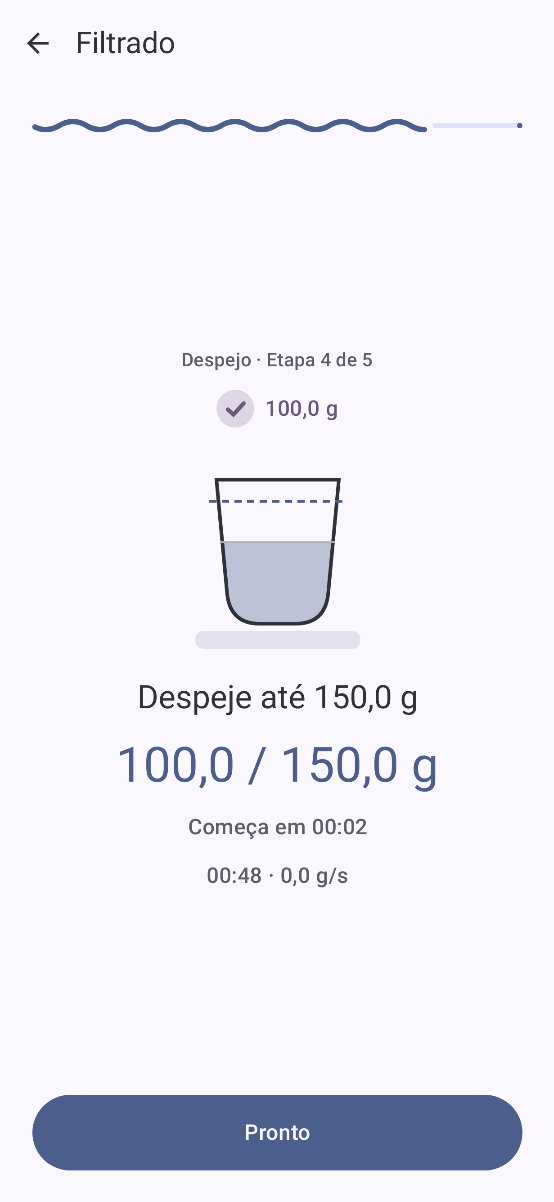
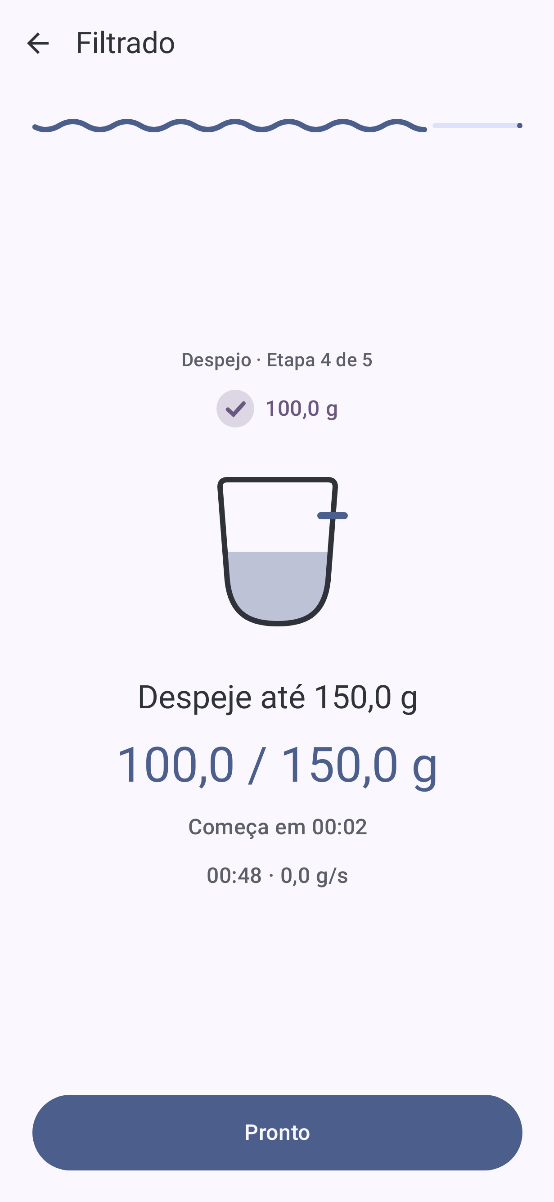
Guided pour: a cleaner cup
A softer rounded cup with a heavier outline, the target as a short solid
tick across its side below the rim, and no dashed line, previous-pour line
or scale bar.

Changed region(s): [[0.3375, 0.4002, 0.6444, 0.5541]]

diff --git a/app/src/main/java/io/github/mateuxlucax/caparao/ui/brew/GuidedStep.kt b/app/src/main/java/io/github/mateuxlucax/caparao/ui/brew/GuidedStep.kt
@@ -31,13 +31,12 @@ import androidx.compose.runtime.remember
 import androidx.compose.ui.Alignment
 import androidx.compose.ui.Modifier
 import androidx.compose.ui.draw.clip
-import androidx.compose.ui.geometry.CornerRadius
 import androidx.compose.ui.geometry.Offset
 import androidx.compose.ui.geometry.Size
 import androidx.compose.ui.graphics.Color
 import androidx.compose.ui.graphics.Path
-import androidx.compose.ui.graphics.PathEffect
 import androidx.compose.ui.graphics.StrokeCap
+import androidx.compose.ui.graphics.StrokeJoin
 import androidx.compose.ui.graphics.drawscope.Stroke
 import androidx.compose.ui.graphics.drawscope.clipPath
 import androidx.compose.ui.graphics.drawscope.scale
@@ -117,7 +116,7 @@ private fun Step(step: RecipeStep, index: Int, count: Int, guide: StepState, sta
     val target = step.targetWeightGrams
     if (step.kind.pours && target != null) {
         val fill by animateFloatAsState((state.weightGrams / target).coerceIn(0.0, 1.1).toFloat(), tween(100, easing = LinearEasing), label = "fill")
-        CupToTarget(fill, ((previousTarget ?: 0.0) / target).toFloat(), color)
+        CupToTarget(fill, color)
         Text(
             stringResource(if (step.kind == StepKind.BLOOM) R.string.guide_bloom else R.string.guide_pour, Format.grams(target, locale)),
             style = MaterialTheme.typography.headlineSmall,
@@ -208,26 +207,26 @@ private fun ReachedCheck(label: String?) {
 
 /** The cup filling toward a dashed target line; the last target as a faint line below it. */
 @Composable
-private fun CupToTarget(fill: Float, previous: Float, color: Color) {
+private fun CupToTarget(fill: Float, color: Color) {
     val colors = MaterialTheme.colorScheme
     Canvas(Modifier.size(160.dp)) {
         scale(size.width / 120f, pivot = Offset.Zero) {
-            // The bowl spans y 20..100; the target line sits at y 32.
+            // A soft rounded cup spanning y 20..100; the target is a short tick across its right side, below the rim.
             val bowl = Path().apply {
-                moveTo(26f, 20f)
-                lineTo(94f, 20f)
-                lineTo(88f, 84f)
-                quadraticTo(86f, 100f, 70f, 100f)
-                lineTo(50f, 100f)
-                quadraticTo(34f, 100f, 32f, 84f)
+                moveTo(28f, 24f)
+                quadraticTo(28f, 20f, 32f, 20f)
+                lineTo(88f, 20f)
+                quadraticTo(92f, 20f, 92f, 24f)
+                lineTo(88f, 76f)
+                cubicTo(86f, 96f, 74f, 100f, 60f, 100f)
+                cubicTo(46f, 100f, 34f, 96f, 32f, 76f)
                 close()
             }
-            fun levelY(f: Float) = 100f - 68f * f
+            fun levelY(f: Float) = 100f - 60f * f
             clipPath(bowl) { drawRect(color.copy(alpha = 0.35f), Offset(20f, levelY(fill)), Size(80f, 100f - levelY(fill))) }
-            drawPath(bowl, colors.onSurface, style = Stroke(width = 2f))
-            if (previous > 0f) drawLine(colors.outlineVariant, Offset(28f, levelY(previous)), Offset(92f, levelY(previous)), strokeWidth = 1f)
-            drawLine(color, Offset(22f, levelY(1f)), Offset(98f, levelY(1f)), strokeWidth = 1.5f, pathEffect = PathEffect.dashPathEffect(floatArrayOf(4f, 3f)))
-            drawRoundRect(colors.surfaceContainerHighest, Offset(14f, 104f), Size(92f, 10f), CornerRadius(5f))
+            drawPath(bowl, colors.onSurface, style = Stroke(width = 3f, join = StrokeJoin.Round))
+            val target = levelY(1f)
+            drawLine(color, Offset(84f, target), Offset(97f, target), strokeWidth = 4f, cap = StrokeCap.Round)
         }
     }
 }
